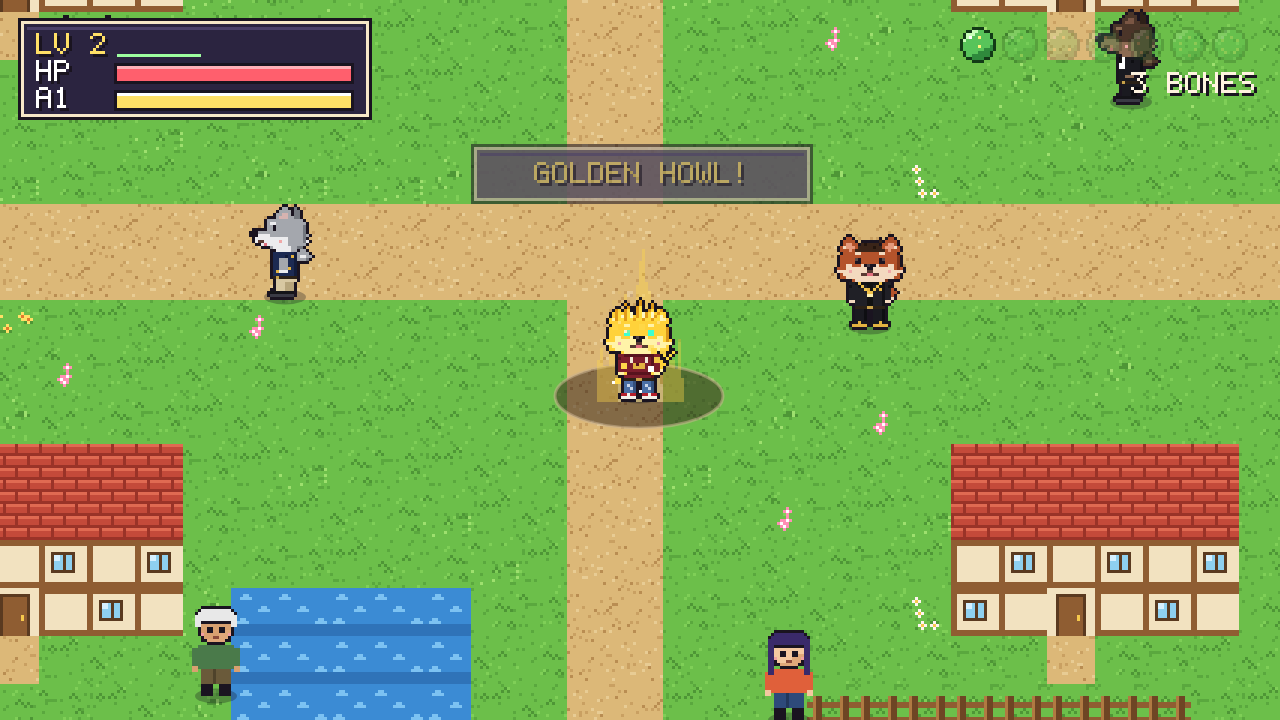
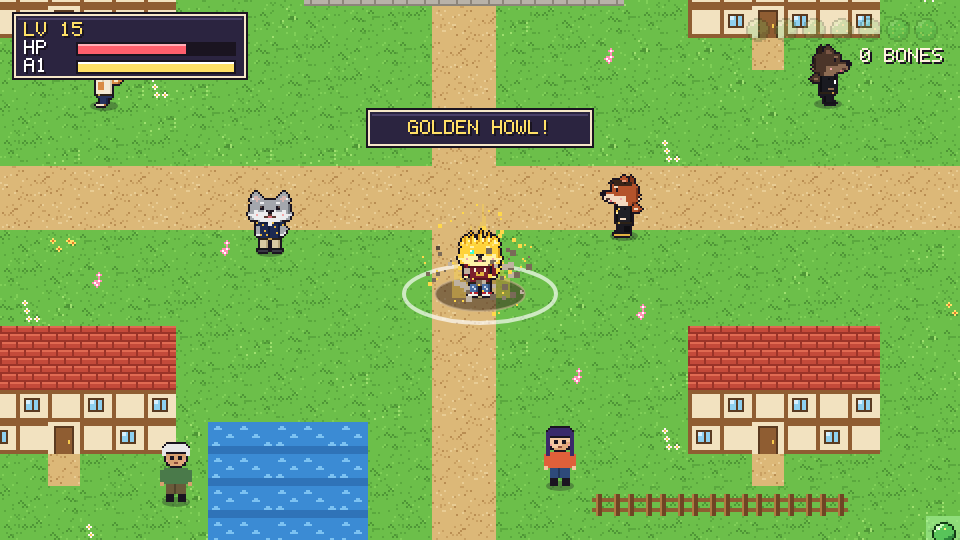
Deterministic cutscene/stage captures

diff --git a/src/game.js b/src/game.js
@@ -486,6 +486,7 @@ function titleMenu() {
 
 // ---------------- main update ----------------
 function update(dt) {
+  if (G.freeze) return;
   G.t += dt; if (G.toast && (G.toast.t -= dt) <= 0) G.toast = null; if (G.banner && (G.banner.t -= dt) <= 0) G.banner = null; G.shake = Math.max(0, G.shake - dt);
   if (pressed.mute) toast(Audio8.toggleMute() ? 'Muted' : 'Sound on');
   for (const p of G.parts) { p.x += p.vx * dt; p.y += p.vy * dt; if (p.g) p.vy += p.g * dt; p.life -= dt; } G.flash = Math.max(0, (G.flash || 0) - dt * 2.6); for (const c of G.craters) c.t += dt; G.craters = G.craters.filter((c) => c.t < 5);
@@ -644,4 +645,4 @@ let last = performance.now();
 function frame(now) { const dt = Math.max(0, Math.min(0.05, (now - last) / 1000)); last = now; try { update(dt); render(); } catch (e) { console.error(e); window.__pbErr = String(e.stack || e); } for (const k in pressed) pressed[k] = false; requestAnimationFrame(frame); }
 resize(); toTitle(); requestAnimationFrame(frame);
 cv.addEventListener('pointerdown', () => { Audio8.unlock(); if (G.state === 'title' && G.menu?.titleScreen) press('atk'), setTimeout(() => release('atk'), 50); });
-G.enterArea = enterArea; G.startTourney = startTourney; G.tourneyResult = tourneyResult; G.startTransform = startTransform; G.STAGES = STAGES; G.heroFrame = heroFrame; G.startBoss = startBoss; G.saveGame = saveGame; G.giveOrb = giveOrb;
+G.enterArea = enterArea; G.stepCut = updateCut; G.startTourney = startTourney; G.tourneyResult = tourneyResult; G.startTransform = startTransform; G.STAGES = STAGES; G.heroFrame = heroFrame; G.startBoss = startBoss; G.saveGame = saveGame; G.giveOrb = giveOrb;
